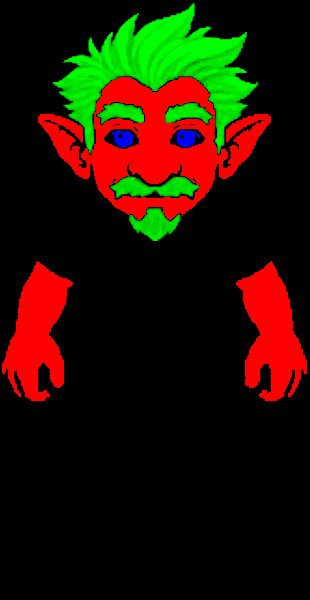
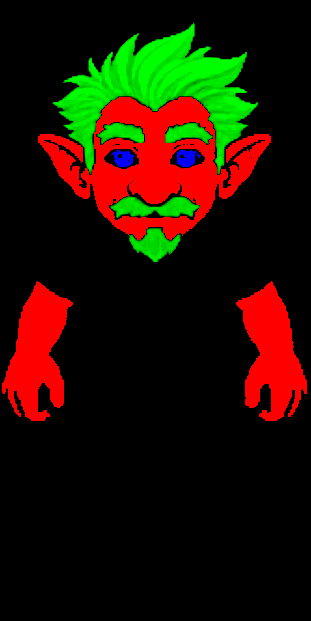
Gnomo: 4 penteados e 4 barbas em verde-chroma

diff --git a/js/ruleset.js b/js/ruleset.js
@@ -156,8 +156,8 @@
       barba: [['Cheia curta', null], ['Longa', 'longa'], ['Trançada', 'trancada'], ['Bifurcada', 'bifurcada'], ['Bigodão', 'bigodao']]
     },
     gnomo: {
-      penteado: [['Espetado', null]],
-      barba: [['Bigode e cavanhaque', null]]
+      penteado: [['Espetado', null], ['Careca', 'careca'], ['Topete', 'topete'], ['Rabinho', 'rabinho'], ['Cacheado', 'cacheado']],
+      barba: [['Bigode e cavanhaque', null], ['Sem barba', 'lisa'], ['Gnomo de jardim', 'jardim'], ['Bigodão', 'bigodao'], ['Cheia curta', 'cheia']]
     },
     halfling: {
       penteado: [['Cacheado', null], ['Tigela', 'tigela'], ['Rabinho', 'rabinho'], ['Cachos longos', 'longo'], ['Raspado', 'raspado']],

diff --git a/index.html b/index.html
@@ -203,7 +203,7 @@
   <script src="js/palace.js?v=69"></script>
   <script src="js/critters_draw.js?v=1"></script>
   <script src="js/fauna.js?v=23"></script>
-  <script src="js/ruleset.js?v=14"></script>
+  <script src="js/ruleset.js?v=15"></script>
   <script src="js/character_creation.js?v=12"></script>
   <script src="js/game.js?v=82"></script>
 </body>
